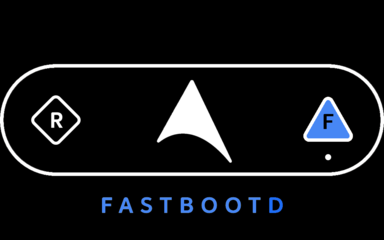
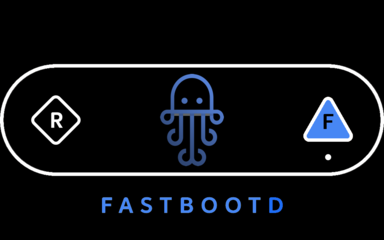
recovery: Rebrand to the Kraken

Changed region(s): [[0.4062, 0.2917, 0.625, 0.7]]

diff --git a/recovery.cpp b/recovery.cpp
@@ -818,14 +818,14 @@ Device::BuiltinAction start_recovery(Device* device, const std::vector<std::stri
 
   // Extract the YYYYMMDD / YYYYMMDD_HHMMSS timestamp from the full version string.
   // Assume the first instance of "-[0-9]{8}-", or "-[0-9]{8}_[0-9]{6}-" in case
-  // ARROW_VERSION_APPEND_TIME_OF_DAY is set to true has the desired date.
-  std::string ver = android::base::GetProperty("ro.arrow.version", "");
+  // KRAKEN_VERSION_APPEND_TIME_OF_DAY is set to true has the desired date.
+  std::string ver = android::base::GetProperty("ro.kraken.version", "");
   std::smatch ver_date_match;
   std::regex_search(ver, ver_date_match, std::regex("-(\\d{8}(_\\d{6})?)-"));
   std::string ver_date = ver_date_match.str(1);  // Empty if no match.
 
   std::vector<std::string> title_lines = {
-    "Version: " + android::base::GetProperty("ro.arrow.display.version", "(unknown)") +
+    "Version: " + android::base::GetProperty("ro.kraken.display.version", "(unknown)") +
         "-" + ver_date,
   };
   if (android::base::GetBoolProperty("ro.build.ab_update", false)) {

diff --git a/recovery_ui/include/recovery_ui/screen_ui.h b/recovery_ui/include/recovery_ui/screen_ui.h
@@ -149,7 +149,7 @@ class TextMenu : public Menu {
   size_t MenuEnd() const;
 
   // Menu example:
-  // info:                           Arrow Recovery
+  // info:                           Kraken Recovery
   //                                 ....
   // help messages:                  Swipe up/down to move
   //                                 Swipe left/right to select
